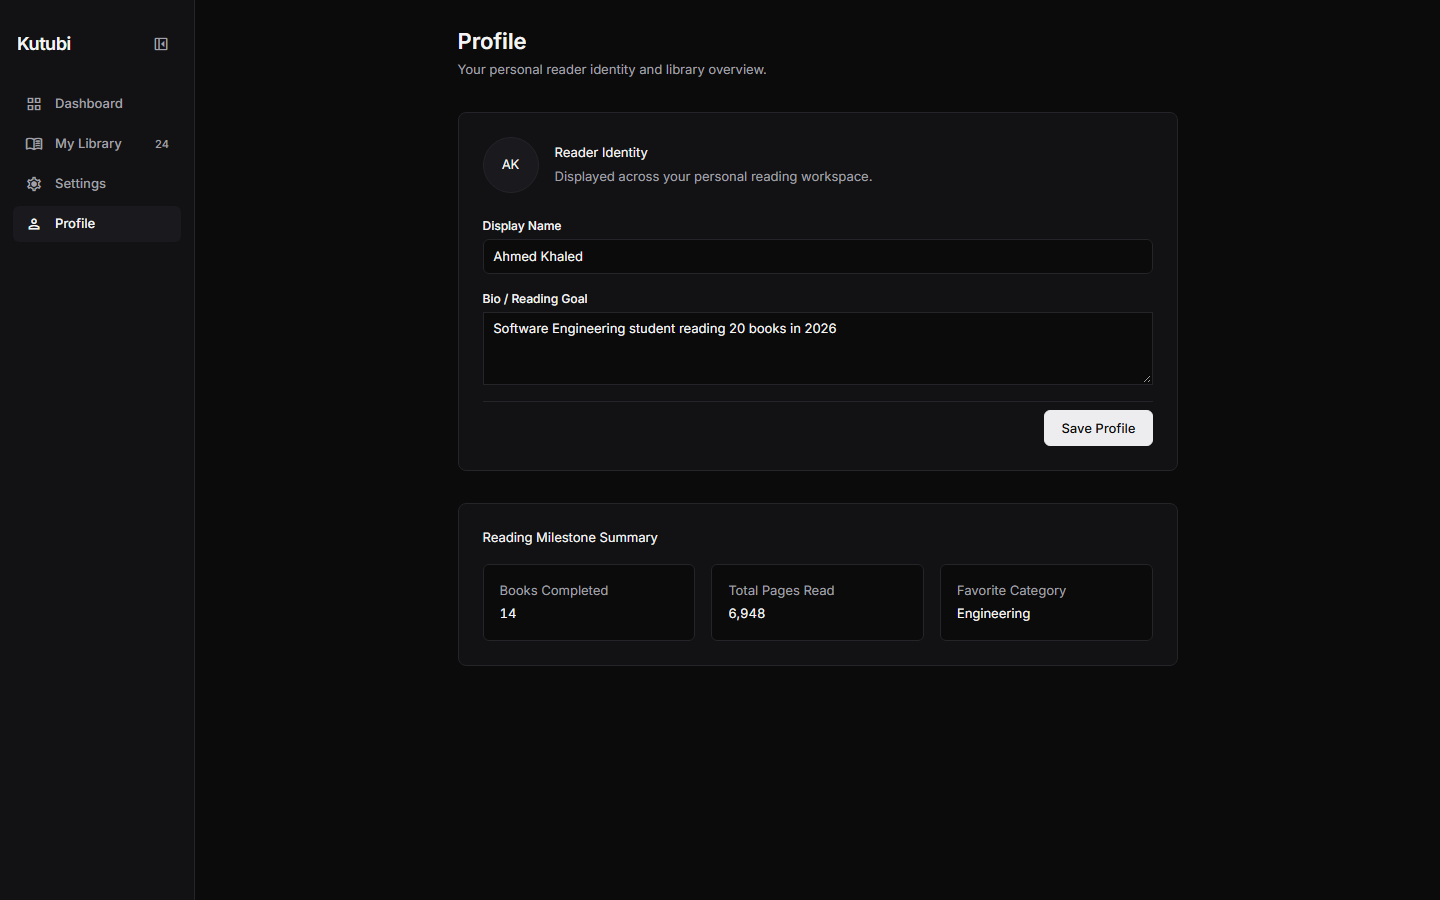
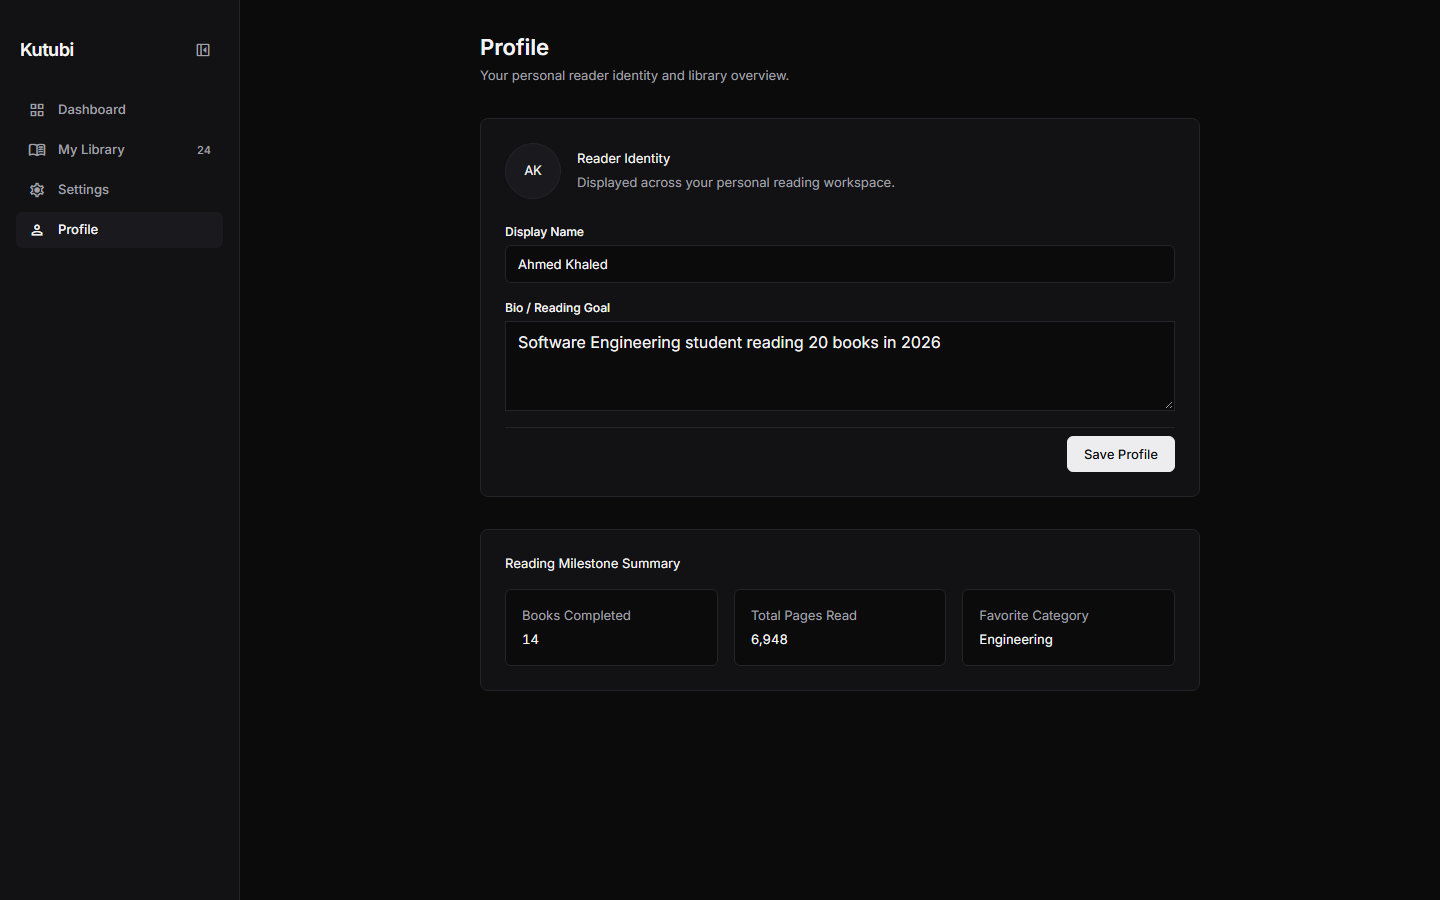
fix(shell): ensure 16px root font size for exact 240px sidebar and 32px top padding

diff --git a/css/styles.css b/css/styles.css
@@ -10,7 +10,11 @@
   box-sizing: border-box;
 }
 
-html, body {
+html {
+  font-size: 16px;
+}
+
+body {
   background-color: var(--bg-primary);
   color: var(--text-primary);
   font-family: var(--font-sans);

diff --git a/public/css/styles.css b/public/css/styles.css
@@ -10,7 +10,11 @@
   box-sizing: border-box;
 }
 
-html, body {
+html {
+  font-size: 16px;
+}
+
+body {
   background-color: var(--bg-primary);
   color: var(--text-primary);
   font-family: var(--font-sans);
